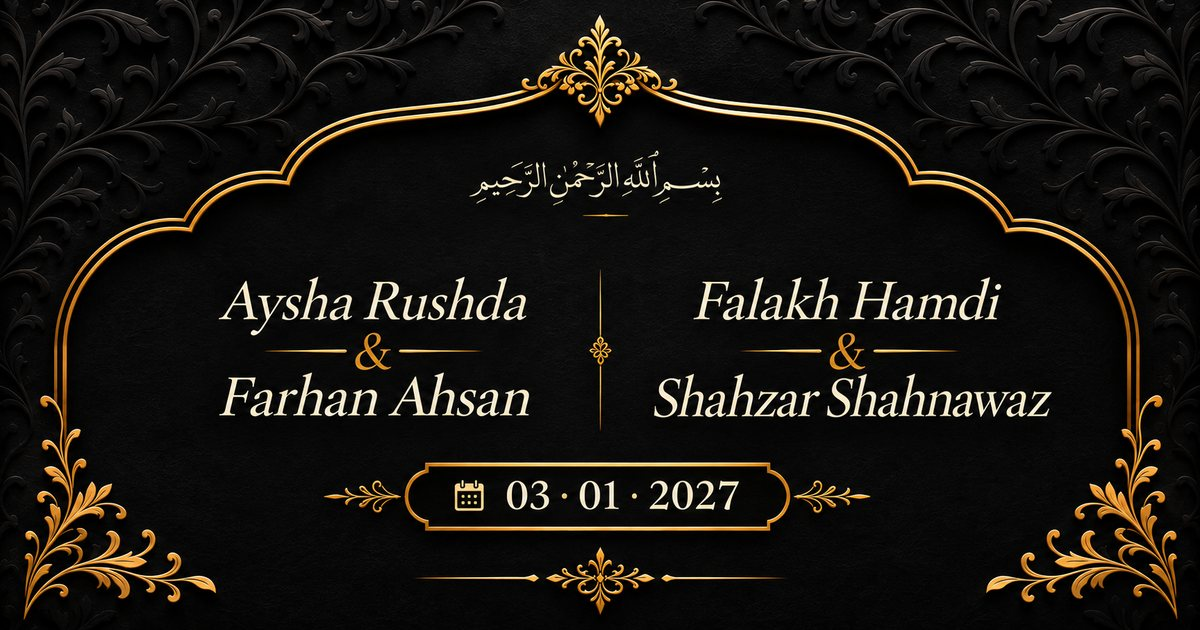
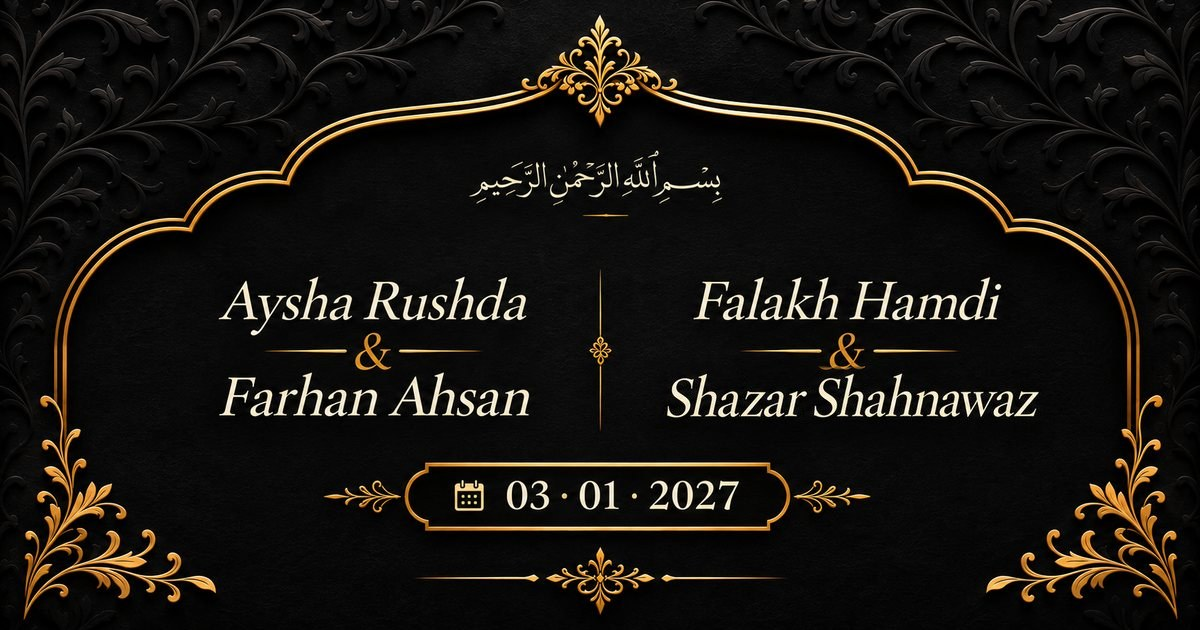
Rename Shahzar to Shazar and update site URL

Changed region(s): [[0.5242, 0.573, 0.8942, 0.6635]]

diff --git a/index.html b/index.html
@@ -3,24 +3,24 @@
 <head>
 <meta charset="UTF-8">
 <meta name="viewport" content="width=device-width, initial-scale=1, viewport-fit=cover">
-<title>Wedding Invitation | Aysha &amp; Farhan • Falakh &amp; Shahzar</title>
-<meta name="description" content="Join us for the wedding celebrations of Aysha Rushda &amp; Farhan Ahsan and Falakh Hamdi &amp; Shahzar Shahnawaz on 3rd January 2027 at Shubham Lawn and Banquet, Varanasi.">
+<title>Wedding Invitation | Aysha &amp; Farhan • Falakh &amp; Shazar</title>
+<meta name="description" content="Join us for the wedding celebrations of Aysha Rushda &amp; Farhan Ahsan and Falakh Hamdi &amp; Shazar Shahnawaz on 3rd January 2027 at Shubham Lawn and Banquet, Varanasi.">
 <meta name="theme-color" content="#0B0B0D">
-<link rel="canonical" href="https://aysha-farhan-falakh-shahzar.vercel.app/">
+<link rel="canonical" href="https://aysha-farhan-falakh-shazar.vercel.app/">
 
 <meta property="og:type" content="website">
-<meta property="og:title" content="Wedding Invitation | Aysha &amp; Farhan • Falakh &amp; Shahzar">
-<meta property="og:description" content="Join us for the wedding celebrations of Aysha Rushda &amp; Farhan Ahsan and Falakh Hamdi &amp; Shahzar Shahnawaz on 3rd January 2027 at Shubham Lawn and Banquet, Varanasi.">
-<meta property="og:url" content="https://aysha-farhan-falakh-shahzar.vercel.app/">
-<meta property="og:image" content="https://aysha-farhan-falakh-shahzar.vercel.app/og.jpg">
+<meta property="og:title" content="Wedding Invitation | Aysha &amp; Farhan • Falakh &amp; Shazar">
+<meta property="og:description" content="Join us for the wedding celebrations of Aysha Rushda &amp; Farhan Ahsan and Falakh Hamdi &amp; Shazar Shahnawaz on 3rd January 2027 at Shubham Lawn and Banquet, Varanasi.">
+<meta property="og:url" content="https://aysha-farhan-falakh-shazar.vercel.app/">
+<meta property="og:image" content="https://aysha-farhan-falakh-shazar.vercel.app/og.jpg">
 <meta property="og:image:type" content="image/jpeg">
 <meta property="og:image:width" content="1200">
 <meta property="og:image:height" content="630">
-<meta property="og:image:alt" content="Black and gold wedding invitation for Aysha &amp; Farhan and Falakh &amp; Shahzar">
+<meta property="og:image:alt" content="Black and gold wedding invitation for Aysha &amp; Farhan and Falakh &amp; Shazar">
 <meta name="twitter:card" content="summary_large_image">
-<meta name="twitter:title" content="Wedding Invitation | Aysha &amp; Farhan • Falakh &amp; Shahzar">
+<meta name="twitter:title" content="Wedding Invitation | Aysha &amp; Farhan • Falakh &amp; Shazar">
 <meta name="twitter:description" content="Wedding celebrations on 3rd January 2027 at Shubham Lawn and Banquet, Varanasi.">
-<meta name="twitter:image" content="https://aysha-farhan-falakh-shahzar.vercel.app/og.jpg">
+<meta name="twitter:image" content="https://aysha-farhan-falakh-shazar.vercel.app/og.jpg">
 
 <link rel="preload" as="image" href="assets/hero-arch.webp" type="image/webp">
 <link rel="preload" as="image" href="assets/video-poster.jpg">
@@ -43,7 +43,7 @@
     <div class="cover-bottom">
       <h1 class="cover-title">Two Weddings, One Celebration</h1>
       <p class="cover-name">Aysha Rushda <i>&amp;</i> Farhan Ahsan</p>
-      <p class="cover-name">Falakh Hamdi <i>&amp;</i> Shahzar Shahnawaz</p>
+      <p class="cover-name">Falakh Hamdi <i>&amp;</i> Shazar Shahnawaz</p>
       <p class="cover-date">03 · 01 · 2027</p>
       <button id="open-btn" class="btn" type="button"><span>Open Invitation</span></button>
     </div>
@@ -61,7 +61,7 @@
       <p class="vn-bis ar" lang="ar" dir="rtl">بِسْمِ اللَّهِ الرَّحْمَٰنِ الرَّحِيمِ</p>
       <p class="vn-n vn-1">Aysha <i>&amp;</i> Farhan</p>
       <span class="vn-line"></span>
-      <p class="vn-n vn-2">Falakh <i>&amp;</i> Shahzar</p>
+      <p class="vn-n vn-2">Falakh <i>&amp;</i> Shazar</p>
       <p class="vn-date">03 · 01 · 2027</p>
     </div>
   <div id="video-fade-mask"></div>
@@ -82,7 +82,7 @@
       <h1 class="h-title rv" style="--d:2">Two Weddings, One Celebration</h1>
       <div class="h-couple rv" style="--d:3"><span class="h-name">Aysha Rushda</span><i class="h-amp">&amp;</i><span class="h-name">Farhan Ahsan</span></div>
       <svg class="fl h-fl rv" style="--d:4" aria-hidden="true"><use href="#fleuron"/></svg>
-      <div class="h-couple rv" style="--d:5"><span class="h-name">Falakh Hamdi</span><i class="h-amp">&amp;</i><span class="h-name">Shahzar Shahnawaz</span></div>
+      <div class="h-couple rv" style="--d:5"><span class="h-name">Falakh Hamdi</span><i class="h-amp">&amp;</i><span class="h-name">Shazar Shahnawaz</span></div>
       <p class="h-date rv" style="--d:6">03 · 01 · 2027</p>
       <p class="h-info rv" style="--d:7">Sunday <b>|</b> After Maghrib Namaz<br>Shubham Lawn and Banquet<br>Varanasi, Uttar Pradesh</p>
     </div>
@@ -118,7 +118,7 @@
       <p class="pf">Daughter of Mrs. &amp; Mr. Shameem Hamdi</p>
       <p class="pf">Granddaughter of Late Haji Noman Hamdi</p>
       <i class="pamp">&amp;</i>
-      <h3 class="pn">Shahzar Shahnawaz</h3>
+      <h3 class="pn">Shazar Shahnawaz</h3>
       <p class="pf">Son of Mrs. &amp; Mr. Shahnawaz Farooq (Taj Baba)</p>
       <p class="pf">Grandson of Late Mrs. &amp; Mr. Haji Md. Farooq (Taj Baba)</p>
     </article>
@@ -215,14 +215,14 @@
     <p class="ar hamd" lang="ar" dir="rtl">الحمد لله</p>
     <h2 class="hd">With Love &amp; Blessings</h2>
     <p class="serif-lg">Your presence and prayers mean the world to us.</p>
-    <p class="cl-names">Aysha Rushda &amp; Farhan Ahsan<br>Falakh Hamdi &amp; Shahzar Shahnawaz</p>
+    <p class="cl-names">Aysha Rushda &amp; Farhan Ahsan<br>Falakh Hamdi &amp; Shazar Shahnawaz</p>
     <svg class="fl big" aria-hidden="true"><use href="#fleuron"/></svg>
   </div>
 </section>
 </main>
 
 <footer>
-  <p>Aysha &amp; Farhan · Falakh &amp; Shahzar</p>
+  <p>Aysha &amp; Farhan · Falakh &amp; Shazar</p>
   <p>03 · 01 · 2027 · Varanasi</p>
 </footer>
 

diff --git a/README.md b/README.md
@@ -1,4 +1,4 @@
-# Wedding Invitation — Aysha & Farhan • Falakh & Shahzar
+# Wedding Invitation — Aysha & Farhan • Falakh & Shazar
 Static site (no build step). Deploy the folder to Vercel/Netlify as-is.
 - `index.html`, `style.css`, `main.js`
 - `assets/hero-arch.png` (hero background), `assets/invitation-opening.mp4` (+ `video-poster.jpg`), `assets/music.mp3`
